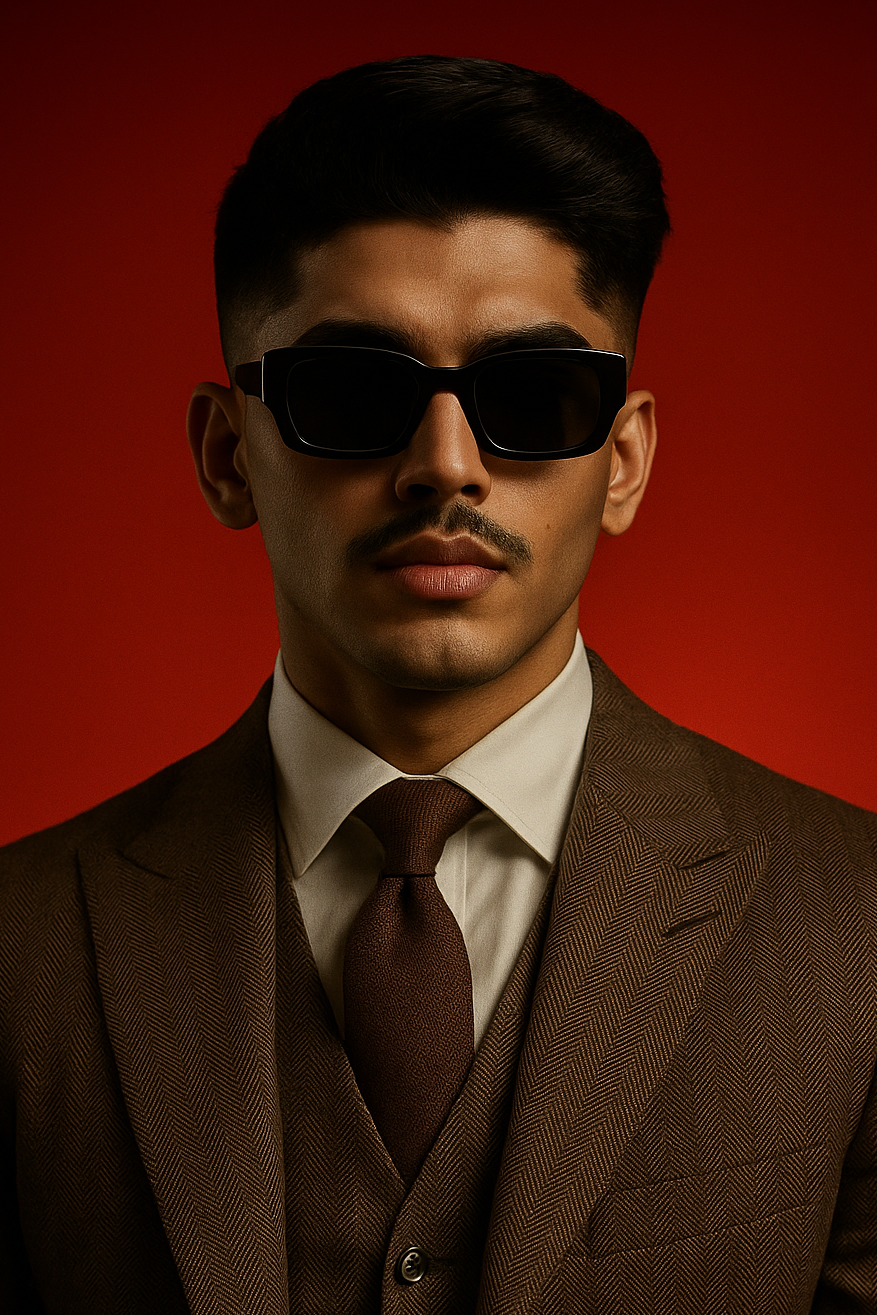
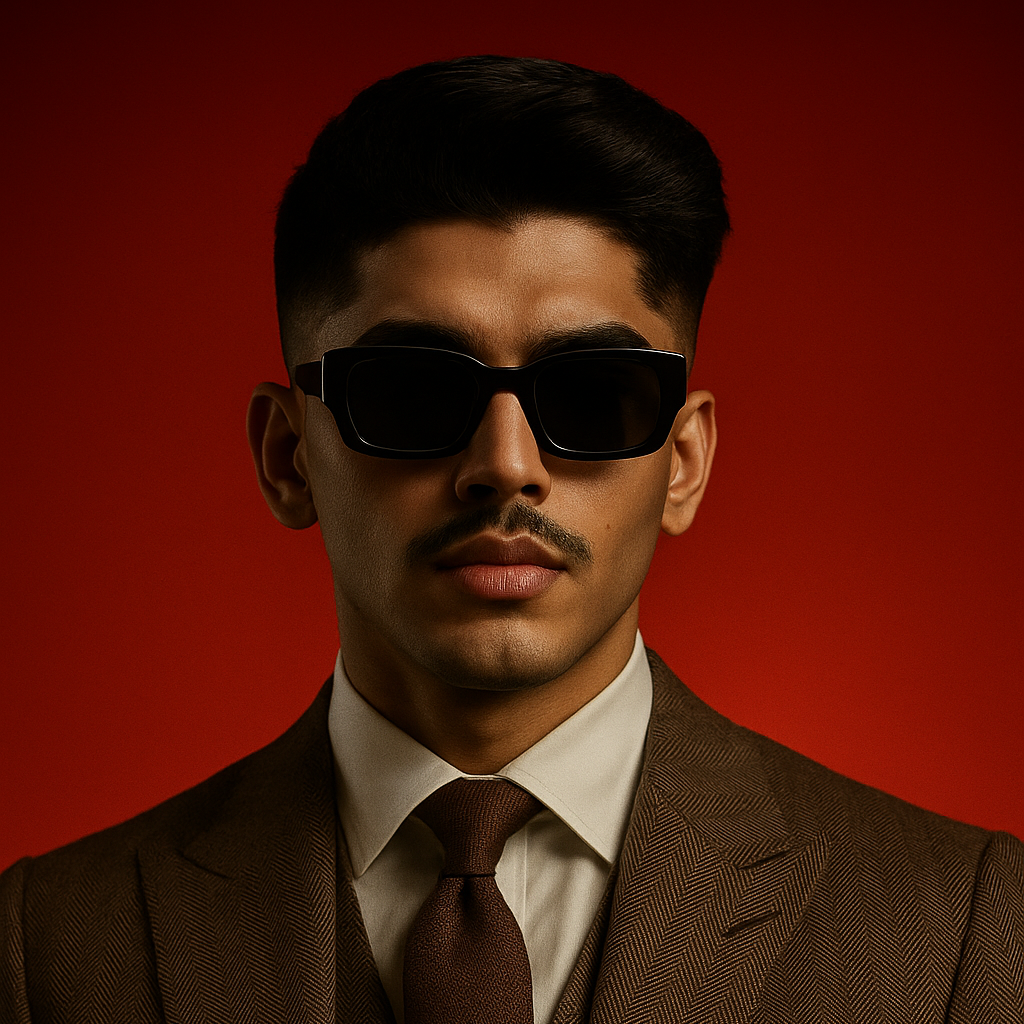
first commit

diff --git a/index.html b/index.html
@@ -20,6 +20,9 @@
     <header>
         <nav class="container">
             <div class="logo glitch">Neural Systems</div>
+
+            <button class="menu-toggle" onclick="toggleMenu()">☰</button>
+
             <ul class="nav-links">
                 <li><a href="#home">Home</a></li>
                 <li><a href="#about">About</a></li>
@@ -46,7 +49,7 @@
                     </div>
                     <div class="robot-body">
                         <div class="robot-chest">
-                            <img src="images/myself.png" alt="Devang Gawade" class="robot-photo">
+                            <img src="images/devang_gpt.png" alt="Devang Gawade" class="robot-photo">
                         </div>
                     </div>
                     <div class="robot-arms">
@@ -373,6 +376,9 @@
     </footer>
 
     <script>
+        function toggleMenu() {
+            document.querySelector('.nav-links').classList.toggle('active');
+        }
         // Loading Animation
         window.addEventListener('load', function() {
             const loading = document.getElementById('loading');

diff --git a/styles.css b/styles.css
@@ -963,4 +963,35 @@ section {
     }
 }
 
+.menu-toggle {
+  display: none;
+  background: none;
+  border: none;
+  font-size: 2rem;
+  color: var(--primary-color);
+  cursor: pointer;
+}
+
+@media (max-width: 768px) {
+  .menu-toggle {
+    display: block;
+    z-index: 1001;
+  }
+
+  .nav-links {
+    display: none;
+    flex-direction: column;
+    gap: 1rem;
+    position: absolute;
+    top: 100%;
+    right: 0;
+    background: rgba(10, 10, 10, 0.95);
+    width: 100%;
+    padding: 1rem 2rem;
+  }
+
+  .nav-links.active {
+    display: flex;
+  }
+}
 
